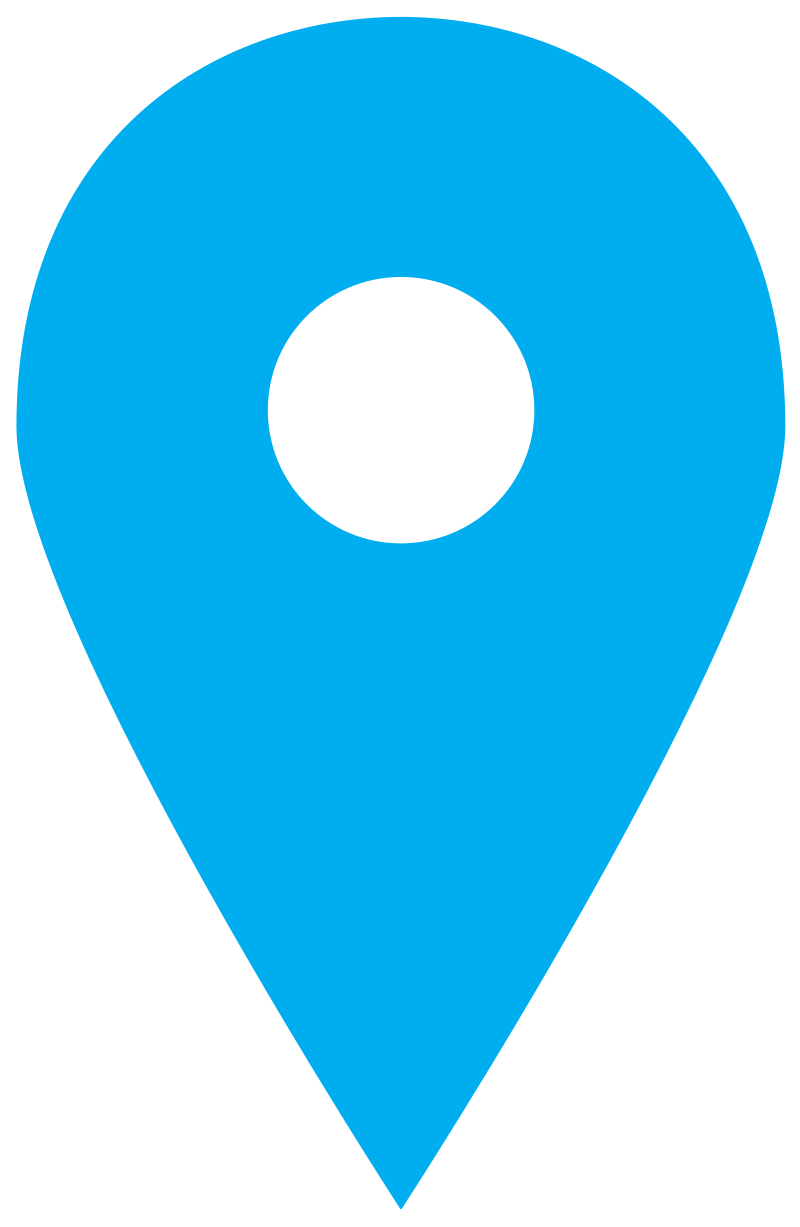
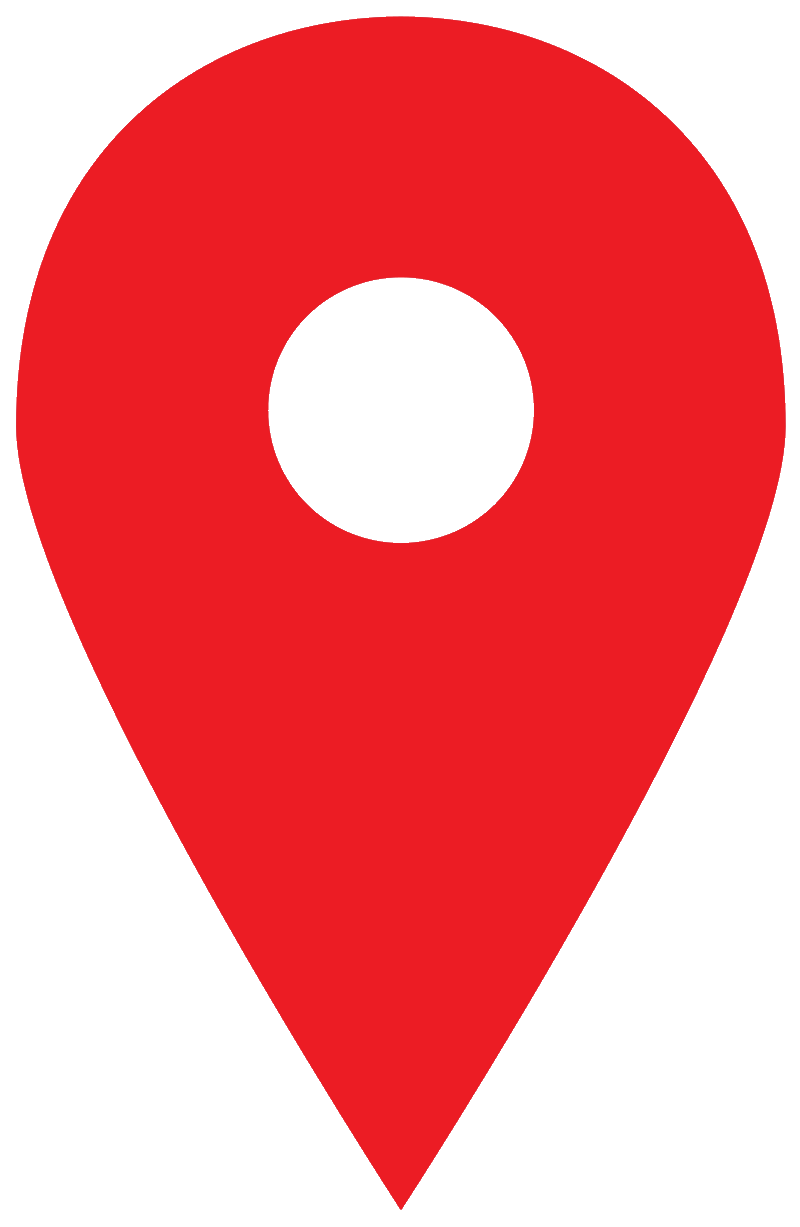
Update map component
Bug still present - when adding more than one location, the selected and current pin / markers get confused

diff --git a/src/app/components/map/map.component.ts b/src/app/components/map/map.component.ts
@@ -44,48 +44,55 @@ import { Pin } from 'src/app/models/pin.interface';
   schemas: [CUSTOM_ELEMENTS_SCHEMA],
 })
 export class MapComponent implements OnInit {
-  @Output() modalClosed: EventEmitter<boolean> = new EventEmitter<boolean>();
+  @Output() modalClosed: EventEmitter<Pin> = new EventEmitter<Pin>();
 
-  notes: string = '';
+  editable = input.required<boolean>();
+  pins = input.required<Pin[]>();
+
+  leafletMap: any;
   loading: boolean = false;
   showMap: boolean = false;
   isMapLoaded: boolean = false;
   saveCurrentLocation: boolean = false;
-  leafletMap: any;
-  addedMarkers: Marker<any>[] = [];
-  currentMarker: L.Marker<any> | undefined = undefined;
-  markerCoordinate = input<Position[] | undefined>();
-  editable = input.required<boolean>();
-  pins: Pin[] = [];
+  notes: string = '';
+
+  currentPin: Pin = {
+    id: Guid.create(),
+    date: new Date(),
+    notes: '',
+  };
   newPin: Pin = {
     id: Guid.create(),
     date: new Date(),
+    notes: '',
   };
-
-  longPressTimeout: any;
-  isLongPressing: boolean = false;
+  mapMarkers: Marker<any>[] = [];
+  currentMarker: L.Marker<any> | undefined = undefined;
 
   constructor(private datePipe: DatePipe) {
     effect(async () => {
-      this.addedMarkers.map((marker) => {
+      this.mapMarkers.map((marker) => {
         this.removePin(marker);
       });
 
-      if (this.markerCoordinate() !== undefined) {
+      if (this.pins() !== undefined) {
         const interval = setInterval(() => {
-          if (this.isMapLoaded) {
-            this.markerCoordinate()!.map((location) => {
-              this.addPin(location);
-            });
+          if (this.isMapLoaded && this.pins()?.some((p) => p.position)) {
+            this.pins()!
+              .filter((p) => p.position)
+              .map((pin) => {
+                this.addPin(pin.position!, pin);
+              });
 
             clearInterval(interval);
           }
-        }, 500);
+        }, 1500);
       }
     });
   }
 
   async ngOnInit() {
+    this.currentPin = this.newPin;
     this.showMap = true;
     await this.checkAndRequestLocation();
   }
@@ -136,40 +143,83 @@ export class MapComponent implements OnInit {
         timestamp: Date.now(),
       };
 
-      // this.newPin
-
       this.saveCurrentLocation = false;
       this.removePin(this.currentMarker);
-      this.currentMarker = this.addPin(location);
-
-      const date = new Date(location.timestamp);
-      this.newPin.date = date;
-      this.configurePinContent();
+      this.addPin(location);
     });
   }
 
-  addPin(location: Position): L.Marker<any> {
+  addPin(location: Position, existingPin: Pin | undefined = undefined) {
     let icon = L.icon({
-      iconUrl: 'assets/images/pin.png',
+      iconUrl: existingPin ? 'assets/images/pin.png' : 'assets/images/pinNew.png',
       iconSize: [27, 40],
     });
 
     const marker = L.marker([location.coords.latitude, location.coords.longitude], { icon: icon }).addTo(
       this.leafletMap,
     );
+    marker.on('click', this.onMarkerClick, this);
 
     const dateStr = this.datePipe.transform(new Date(), 'dd MMM yyyy');
     const popup = L.popup().setContent(`<p>${dateStr}</p>`);
 
-    this.addedMarkers.push(marker);
+    this.mapMarkers.push(marker);
     marker.bindPopup(popup);
-    return marker;
+
+    if (existingPin === undefined) {
+      this.currentMarker = marker;
+
+      const date = new Date(location.timestamp);
+      this.currentPin = this.newPin;
+      this.currentPin.date = date;
+      this.currentPin.position = location;
+      this.currentPin.notes = this.currentPin.notes;
+      this.configurePinContent(this.currentMarker!, this.currentPin);
+    } else {
+      this.configurePinContent(marker, existingPin);
+    }
+  }
+
+  onMarkerClick(e: L.LeafletMouseEvent) {
+    const clickedMarker = e.target as L.Marker;
+    const index = this.mapMarkers.indexOf(clickedMarker);
+    this.currentMarker = this.mapMarkers[index];
+
+    this.mapMarkers.map((m) => {
+      const mark = m.getLatLng();
+      const newMark = this.newPin.position?.coords;
+      const isNewMark = mark.lat === newMark?.latitude && mark.lng === newMark?.longitude;
+      const icon = L.icon({
+        iconUrl: isNewMark ? 'assets/images/pinNew.png' : 'assets/images/pin.png',
+        iconSize: [27, 40],
+      });
+      m.setIcon(icon);
+    });
+
+    const icon = L.icon({
+      iconUrl: 'assets/images/pinSelected.png',
+      iconSize: [27, 40],
+    });
+    this.currentMarker.setIcon(icon);
+
+    const currLatLang = this.currentMarker?.getLatLng();
+    const pin = this.pins().find((p) => {
+      const pinLatLang = p.position?.coords;
+      return currLatLang?.lat === pinLatLang?.latitude && currLatLang?.lng === pinLatLang?.longitude;
+    });
+
+    if (pin) {
+      this.currentPin = pin;
+    } else {
+      this.currentPin = this.newPin;
+    }
+    this.notes = this.currentPin.notes;
   }
 
   removePin(marker: Marker<any> | undefined) {
     if (marker) {
       this.leafletMap.removeLayer(marker);
-      this.addedMarkers.splice(this.addedMarkers.indexOf(marker), 1);
+      this.mapMarkers.splice(this.mapMarkers.indexOf(marker), 1);
     } else {
       console.warn('Marker not found at specified location');
     }
@@ -189,26 +239,38 @@ export class MapComponent implements OnInit {
         }
       }
       this.removePin(this.currentMarker);
-      this.currentMarker = this.addPin(await Geolocation.getCurrentPosition());
+      this.addPin(await Geolocation.getCurrentPosition());
     }
     this.loading = false;
   }
 
   notesChanged(): void {
-    this.configurePinContent();
+    this.currentPin.notes = this.notes;
+    this.configurePinContent(this.currentMarker!, this.currentPin);
   }
 
   dateTimeChanged($event: IonDatetimeCustomEvent<DatetimeChangeEventDetail>) {
+    alert(this.currentPin.date);
     const value = $event.target.value;
     if (typeof value === 'string') {
       const newDate = new Date(value!);
-      this.newPin.date = newDate;
-      this.configurePinContent();
+      this.currentPin.date = newDate;
+      this.configurePinContent(this.currentMarker!, this.currentPin);
     }
   }
 
-  private configurePinContent(): void {
-    const dateStr = this.datePipe.transform(this.newPin.date, 'dd MMM yyyy');
-    this.currentMarker?.setPopupContent(`<h6>${dateStr}</h6><sub>${this.notes}</sub>`);
+  doneClicked(): void {
+    let icon = L.icon({
+      iconUrl: this.newPin.position === this.currentPin.position ? 'assets/images/pinNew.png' : 'assets/images/pin.png',
+      iconSize: [27, 40],
+    });
+    this.currentMarker?.setIcon(icon);
+    this.currentMarker = undefined;
+    this.notes = '';
+  }
+
+  private configurePinContent(marker: L.Marker<any>, pin: Pin): void {
+    const dateStr = this.datePipe.transform(pin.date, 'dd MMM yyyy');
+    marker.setPopupContent(`<h6>${dateStr}</h6><sub>${pin.notes}</sub>`);
   }
 }

diff --git a/src/app/components/map/map.component.html b/src/app/components/map/map.component.html
@@ -2,24 +2,22 @@
   <ion-header>
     <ion-toolbar>
       <ion-buttons slot="start">
-        <ion-button (click)="modalClosed.emit(false)">
+        <ion-button (click)="modalClosed.emit(undefined)">
           Cancel
           <ion-icon name="close" slot="start"></ion-icon>
         </ion-button>
       </ion-buttons>
       <ion-buttons slot="end">
-        <ion-button (click)="modalClosed.emit(true)">
+        <ion-button (click)="modalClosed.emit(newPin)">
           Save
           <ion-icon name="save" slot="start"></ion-icon>
         </ion-button>
       </ion-buttons>
     </ion-toolbar>
   </ion-header>
-  <ion-content style="height: 100dvh; overflow: auto;">
+  <ion-content style="height: 100dvh; overflow: auto">
     <ion-card>
-      <ion-card-header>
-        Annotate
-      </ion-card-header>
+      <ion-card-header style="padding-bottom: 0"> Annotate </ion-card-header>
       <ion-list>
         <!-- Notes -->
         <ion-item lines="none">
@@ -28,6 +26,7 @@
             label="Notes"
             labelPlacement="stacked"
             placeholder="Enter notes here"
+            autocapitalize="sentences"
             style="margin-top: 10px"
             [(ngModel)]="notes"
             (ionChange)="notesChanged()"
@@ -37,28 +36,28 @@
         <!-- Date Time -->
         <ion-item lines="none">
           <ion-datetime-button datetime="datetime"></ion-datetime-button>
-          <ion-button slot="end" fill="outline" size="default"> Done </ion-button>
+          <ion-button slot="end" fill="outline" size="default" (click)="doneClicked()"> Done </ion-button>
         </ion-item>
       </ion-list>
     </ion-card>
     <ion-card>
       <ng-container *ngTemplateOutlet="map"></ng-container>
     </ion-card>
-    <ion-card style="margin-bottom: 100px;">
+    <ion-card style="margin-bottom: 100px">
       <ion-list>
         @if (isMapLoaded) {
           <ion-item lines="none">
-              <ion-toggle
-                #locationToggle
-                justify="space-between"
-                color="success"
-                [disabled]="loading"
-                [enableOnOffLabels]="true"
-                [checked]="saveCurrentLocation"
-                (ionChange)="locationToggleChanged(locationToggle.checked)"
-              >
-                Save Current Location
-              </ion-toggle>
+            <ion-toggle
+              #locationToggle
+              justify="space-between"
+              color="success"
+              [disabled]="loading"
+              [enableOnOffLabels]="true"
+              [checked]="saveCurrentLocation"
+              (ionChange)="locationToggleChanged(locationToggle.checked)"
+            >
+              Save Current Location
+            </ion-toggle>
           </ion-item>
           <sub style="margin-left: 15px; margin-top: -15px">Or tap and hold to add location</sub>
         }

diff --git a/src/app/pages/new/create/create.page.ts b/src/app/pages/new/create/create.page.ts
@@ -15,6 +15,7 @@ import {
 } from '@ionic/angular/standalone';
 import { MapComponent } from 'src/app/components/map/map.component';
 import { CategoryStructure, CategoryStructureItem } from 'src/app/models/category-structure.interface';
+import { Pin } from 'src/app/models/pin.interface';
 import { VoiceNote } from 'src/app/models/voice-notes.interface';
 import { CategoryService } from 'src/app/services-new/category.service';
 import { RecordingService } from 'src/app/services/recording.service';
@@ -62,6 +63,7 @@ export class CreatePage implements OnInit {
   selectedCategoryItem = signal<CategoryStructureItem | undefined>(undefined);
   images = signal<{ format: string; webPath: string; isHighlight: boolean }[]>([]);
   selectedImage = signal<{ format: string; webPath: string; isHighlight: boolean } | undefined>(undefined);
+  mapPins = signal<Pin[]>([]);
 
   constructor() {}
 
@@ -149,8 +151,15 @@ export class CreatePage implements OnInit {
     this.isActionSheetOpen.set(true);
   }
 
-  mapModalClosed(save: boolean) {
+  mapModalClosed(newPin: Pin) {
     this.showMapModal = false;
+    if (!newPin) return;
+
+    this.mapPins.update((pins) => {
+      pins.push(newPin);
+      return pins;
+    });
   }
+
   onSubmit(): void {}
 }

diff --git a/src/app/pages/new/create/create.page.html b/src/app/pages/new/create/create.page.html
@@ -58,7 +58,7 @@
 
   <ion-modal [isOpen]="showMapModal">
     <ng-template>
-      <app-map [markerCoordinate]="[]" [editable]="true" (modalClosed)="mapModalClosed($event)"></app-map>
+      <app-map [pins]="mapPins()" [editable]="true" (modalClosed)="mapModalClosed($event)"></app-map>
     </ng-template>
   </ion-modal>  
 </ion-content>

diff --git a/src/app/pages/new/view/view.page.html b/src/app/pages/new/view/view.page.html
@@ -84,7 +84,7 @@
           </ion-item>
         </ion-list>
         <div style="margin: 10px 12px">
-          <app-map [markerCoordinate]="[]" [editable]="false"></app-map>
+          <app-map [pins]="[]" [markerCoordinate]="[]" [editable]="false"></app-map>
         </div>
       </ion-content>
     </ng-template>

diff --git a/src/app/models/pin.interface.ts b/src/app/models/pin.interface.ts
@@ -4,5 +4,6 @@ import { Guid } from 'guid-typescript';
 export interface Pin {
   id: Guid;
   date: Date;
+  notes: string;
   position?: Position | undefined;
 }
